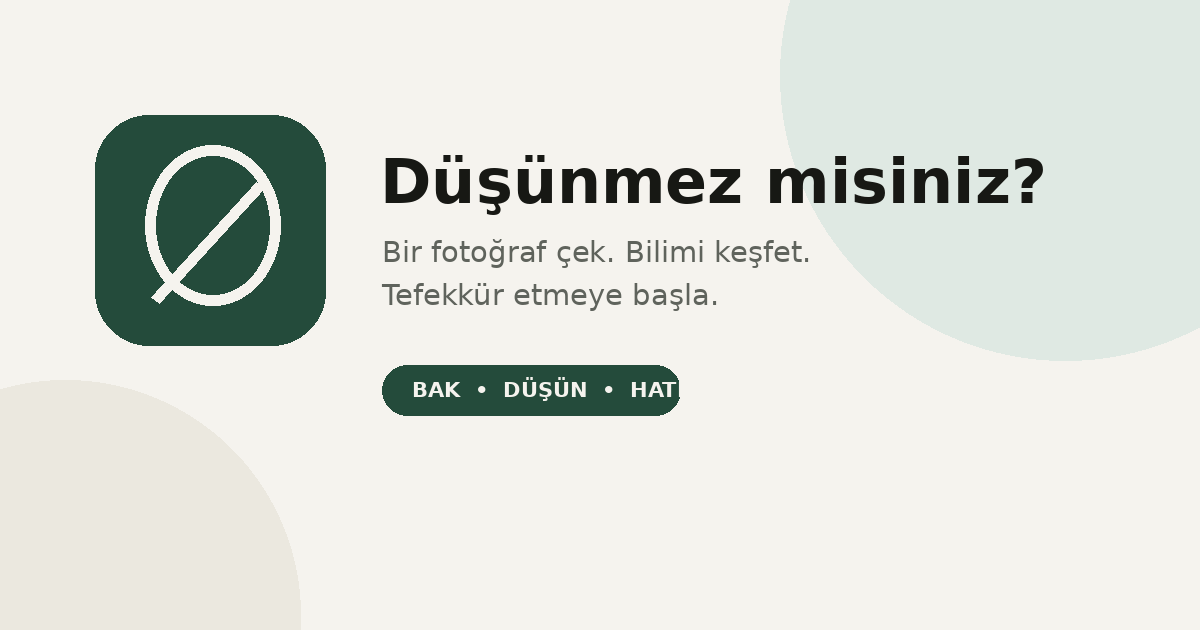
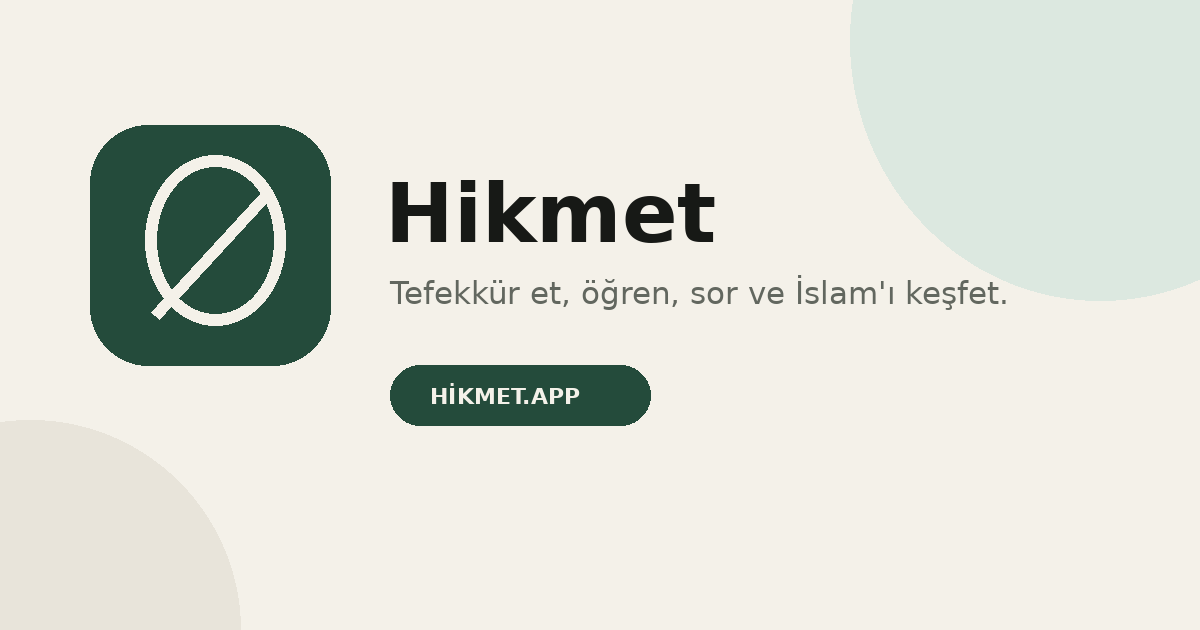
Add files via upload

diff --git a/index.html b/index.html
@@ -8,9 +8,14 @@
   <meta property="og:type" content="website">
   <meta property="og:title" content="Hikmet">
   <meta property="og:description" content="Tefekkür et, öğren, sor ve İslam'ı keşfet.">
-  <meta property="og:image" content="https://hikmet.net/social-preview.svg">
-  <meta property="og:url" content="https://hikmet.net/">
+  <meta property="og:image" content="https://hikmet.app/social-preview.png">
+  <meta property="og:image:secure_url" content="https://hikmet.app/social-preview.png">
+  <meta property="og:image:type" content="image/png">
+  <meta property="og:image:width" content="1200">
+  <meta property="og:image:height" content="630">
+  <meta property="og:url" content="https://hikmet.app/">
   <meta name="twitter:card" content="summary_large_image">
+  <meta name="twitter:image" content="https://hikmet.app/social-preview.png">
   <title>Hikmet</title>
   <link rel="icon" href="/favicon.svg" type="image/svg+xml">
   <link rel="manifest" href="/manifest.webmanifest">
